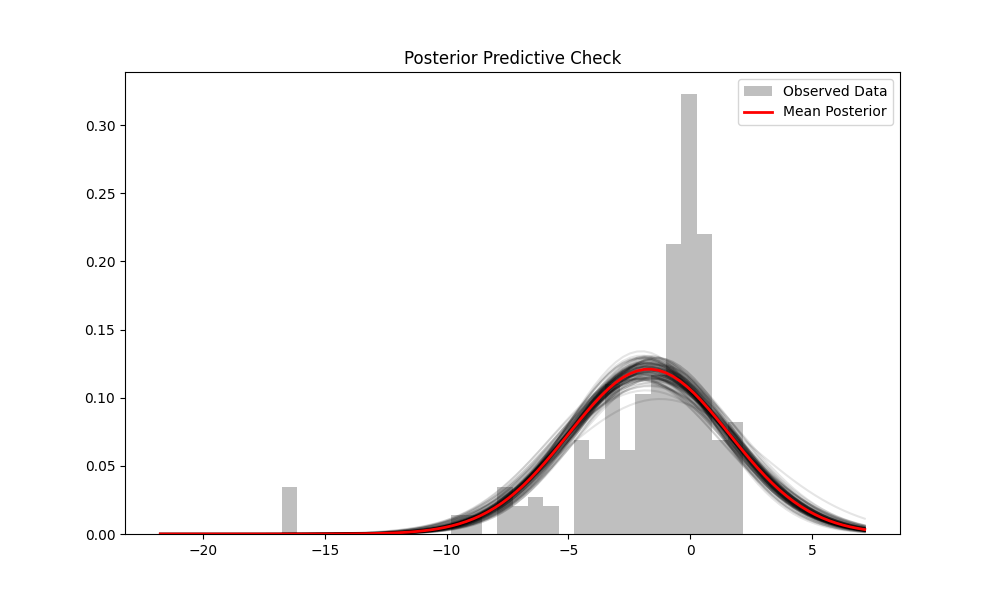
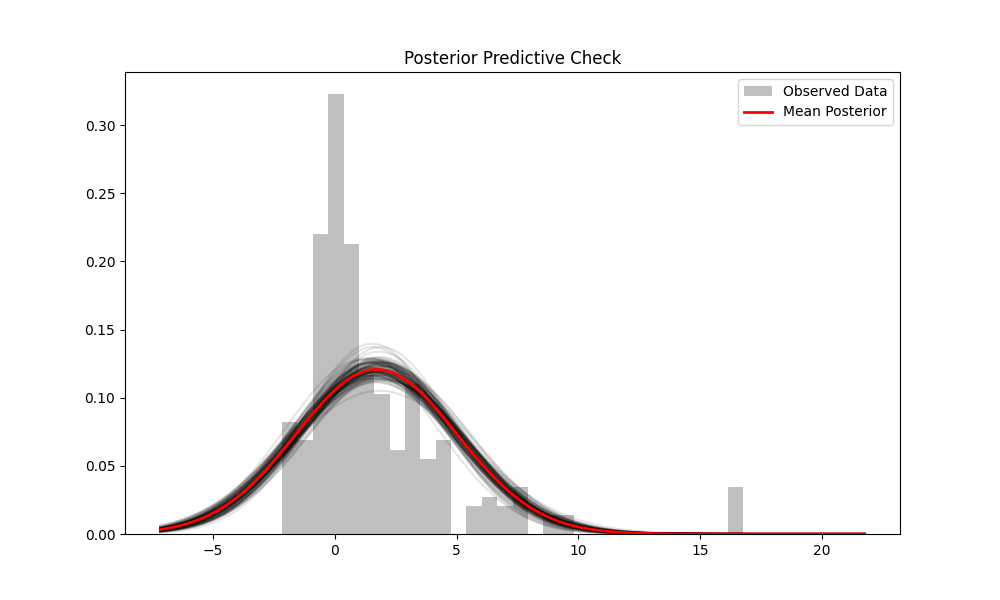
[AUDIT03-C] the sampler called itself adaptive and was not
Bayesian_Meta_Analysis.py carried the comment "Simple adaptive: standard
deviation of recent samples" directly above prop_sd = [0.5, 0.5], a literal that
was never reassigned. The block labelled "Adaptation during tuning" computed an
acceptance rate and threw it away, its only print commented out. That discarded
variable was the sole visible symptom, which is why ruff F841 found it and
reading the file did not.

Measured BEFORE changing anything, because "no adaptation" is a claim about
behaviour and had to be tested rather than inferred:

  acceptance 0.18-0.20 across four chains, against the ~0.44 optimum for a
  2-parameter random-walk Metropolis (Roberts, Gelman & Gilks 1997)
  R-hat 1.0014 / 1.0003, ESS 2012 / 2289

So the posterior was never in doubt. This was an efficiency defect and a false
comment, not a wrong answer -- recorded that way rather than inflated.

Adaptation now runs during TUNING ONLY, on a bounded multiplicative step, and is
frozen before the retained draws begin. Adapting while sampling would make the
chain non-Markovian and void the stationary distribution; that is the standard
trap and the reason the freeze is explicit. The reported acceptance rate is now
split into overall and retained-draws figures, since the old single number mixed
in the adapting phase.

After:

  acceptance 0.39-0.47 on the retained draws, proposal sd 0.224-0.274 and
  consistent across chains
  ESS sigma 2289 -> 3104 (+36%), ESS mu 2012 -> 2025
  R-hat 1.0005 / 1.0011
[…]

Changed region(s): [[0.155, 0.15, 0.868, 0.93]]

diff --git a/src/stats/Bayesian_Meta_Analysis.py b/src/stats/Bayesian_Meta_Analysis.py
@@ -17,9 +17,10 @@ OUTPUT_DIR = "results/stats"
 # (audit/AUDIT03_R2_collapse/probe_paths_parity.py). Guarded by
 # tools/check_single_engine.sh.
 sys.path.insert(0, str(Path(__file__).resolve().parents[1]))
-from causalbool_paths import repo_root as _repo_root  # noqa: E402
-from causalbool_paths import paper_root as _paper_root  # noqa: E402
 from causalbool_paths import paper_figures_dir as _paper_figures_dir  # noqa: E402
+# repo_root and paper_root were imported here too and never used -- residue of
+# the collapse, which replaced three local definitions with three imports rather
+# than with the one this module actually calls.
 
 
 FIGURE_DIR = os.getenv("BAYES_FIGURE_DIR", str(_paper_figures_dir()))
@@ -93,10 +94,30 @@ def metropolis_sampler(y, draws=5000, tune=1000, chains=4, initial_params=None):
         
         chain_samples = np.zeros((draws + tune, 2))
         accepted = 0
+        accepted_sampling = 0   # counted only after tuning, so the reported
+                                # rate describes the chain that was kept
         
-        # Proposal width (tuned manually or adaptive)
-        # Simple adaptive: standard deviation of recent samples
-        prop_sd = [0.5, 0.5] 
+        # AUDIT03-C. This read "Simple adaptive: standard deviation of recent
+        # samples" above a fixed literal that was never reassigned. The block
+        # below labelled "Adaptation during tuning" computed an acceptance rate
+        # and discarded it, with its only print commented out -- which is why
+        # ruff F841 was the thing that found this. The sampler was a FIXED-scale
+        # random walk describing itself as adaptive.
+        #
+        # Measured before the fix: acceptance 0.18-0.20 across four chains,
+        # against the ~0.44 optimum for a 2-parameter random-walk Metropolis
+        # (Roberts, Gelman & Gilks 1997). Convergence was never in doubt --
+        # R-hat 1.0014/1.0003 -- so this was an efficiency defect, not a wrong
+        # posterior. The proposal was simply too wide.
+        #
+        # Adaptation runs during TUNING ONLY and is frozen before the retained
+        # draws begin. Adapting while sampling would make the chain
+        # non-Markovian and void the stationary distribution, which is the
+        # standard trap here.
+        prop_sd = np.array([0.5, 0.5])
+        target_acc = 0.44
+        adapt_every = 100
+        accepted_window = 0
         
         for i in range(draws + tune):
             # Propose new mu
@@ -117,15 +138,28 @@ def metropolis_sampler(y, draws=5000, tune=1000, chains=4, initial_params=None):
                     current_sigma = prop_sigma
                     current_logprob = prop_logprob
                     accepted += 1
-            
+                    accepted_window += 1
+                    if i >= tune:
+                        accepted_sampling += 1
+
             chain_samples[i] = [current_mu, current_sigma]
-            
-            # Adaptation during tuning
-            if i < tune and i % 100 == 0 and i > 0:
-                acc_rate = accepted / (i + 1)
-                # print(f"    Step {i}: Acceptance Rate {acc_rate:.2f}")
-        
-        print(f"  Chain {chain+1} finished. Acceptance Rate: {accepted/(draws+tune):.2f}")
+
+            # Adaptation during tuning, then frozen.
+            if i < tune and i % adapt_every == 0 and i > 0:
+                window_rate = accepted_window / adapt_every
+                # Multiplicative Robbins-Monro style step on the log scale:
+                # above target -> widen, below target -> narrow. Bounded so a
+                # pathological window cannot collapse or explode the proposal.
+                prop_sd = prop_sd * float(np.clip(
+                    np.exp(window_rate - target_acc), 0.8, 1.25))
+                prop_sd = np.clip(prop_sd, 1e-3, 1e3)
+                accepted_window = 0
+
+        acc_sampling = accepted_sampling / draws
+        print(f"  Chain {chain+1} finished. Acceptance Rate: "
+              f"{accepted/(draws+tune):.2f} overall, {acc_sampling:.2f} on the "
+              f"retained draws (target {target_acc}); "
+              f"final proposal sd [{prop_sd[0]:.3f}, {prop_sd[1]:.3f}]")
         traces.append(chain_samples[tune:])
         
     return np.array(traces)
@@ -225,7 +259,8 @@ def plot_results(traces, y_data):
     
     # Generate predictive samples
     x_range = np.linspace(min(y_data)-5, max(y_data)+5, 100)
-    ppc_samples = []
+    # (An empty `ppc_samples` list was collected here and never appended to or
+    # read. The check itself is real -- 100 posterior draws are plotted below.)
     for _ in range(100):
         idx = np.random.randint(len(flat_mu))
         m = flat_mu[idx]
